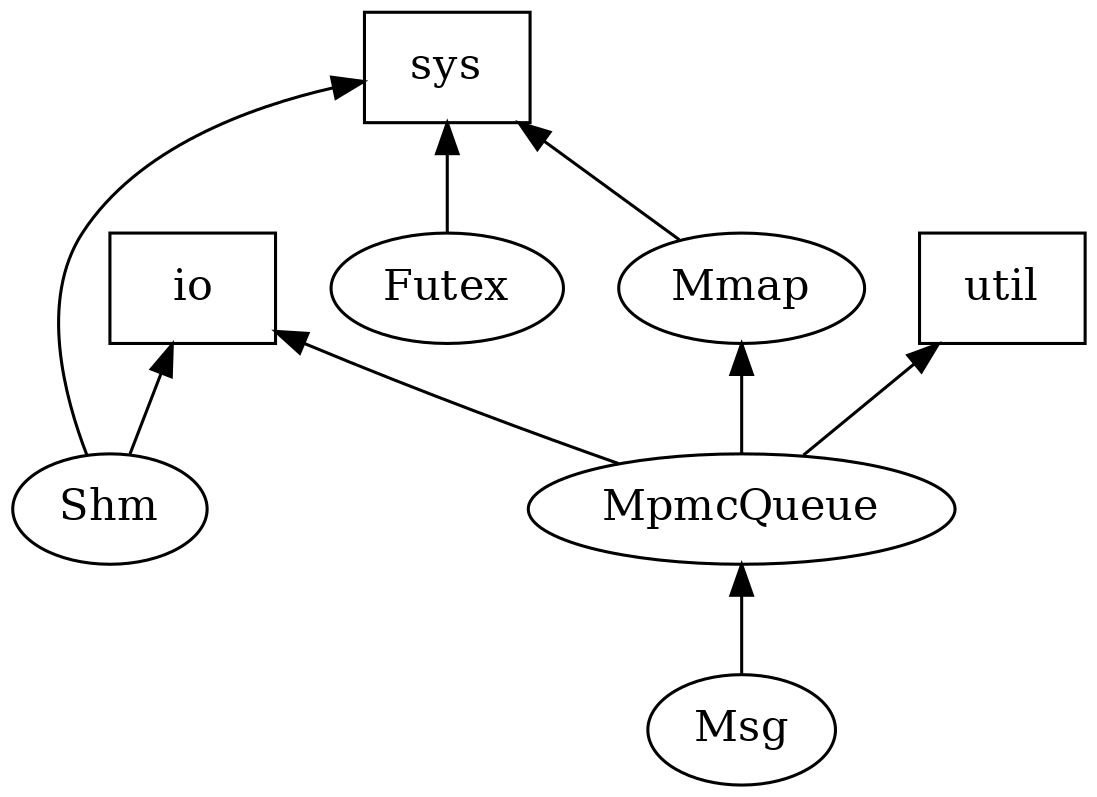
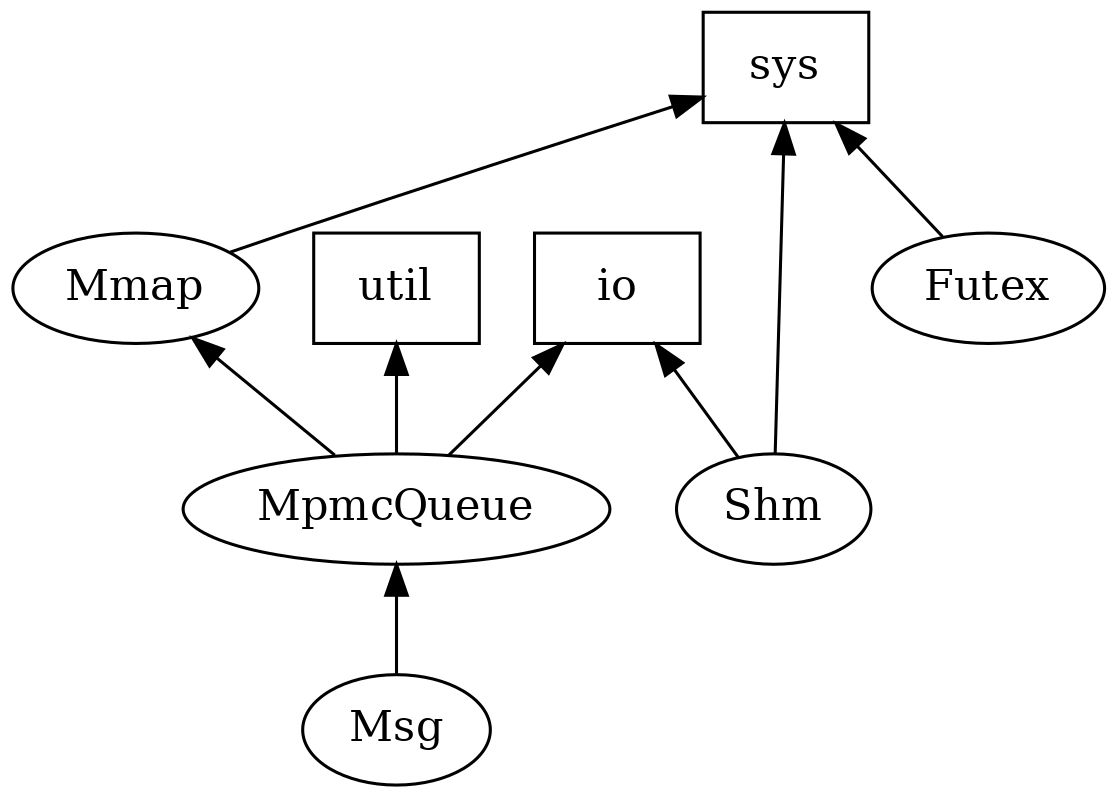
deploy: 26d0957eef1193dd931cfae5f856b34ff83b358c

diff --git a/EchoClnt_8cpp.html b/EchoClnt_8cpp.html
@@ -84,56 +84,56 @@ Include dependency graph for EchoClnt.cpp:</div>
 <div class="dyncontent">
 <div class="center"><img src="EchoClnt_8cpp__incl.png" border="0" usemap="#example_2EchoClnt_8cpp" alt=""/></div>
 <map name="example_2EchoClnt_8cpp" id="example_2EchoClnt_8cpp">
-<area shape="rect" title=" " alt="" coords="2805,5,2971,32"/>
-<area shape="rect" href="io_8hpp.html" title=" " alt="" coords="648,155,763,181"/>
-<area shape="rect" title=" " alt="" coords="2495,453,2587,480"/>
-<area shape="rect" title=" " alt="" coords="1159,603,1219,629"/>
-<area shape="rect" title=" " alt="" coords="43,379,213,405"/>
-<area shape="rect" href="net_8hpp.html" title=" " alt="" coords="1902,80,2026,107"/>
-<area shape="rect" href="sys_8hpp.html" title=" " alt="" coords="2676,80,2801,107"/>
-<area shape="rect" href="util_8hpp.html" title=" " alt="" coords="2826,80,2950,107"/>
-<area shape="rect" title=" " alt="" coords="2975,80,3060,107"/>
-<area shape="rect" title=" " alt="" coords="3085,80,3150,107"/>
-<area shape="rect" title=" " alt="" coords="3175,80,3241,107"/>
-<area shape="rect" title=" " alt="" coords="3266,80,3353,107"/>
-<area shape="rect" title=" " alt="" coords="3377,80,3463,107"/>
-<area shape="rect" title=" " alt="" coords="3488,80,3547,107"/>
-<area shape="rect" href="Buffer_8hpp.html" title=" " alt="" coords="875,528,979,555"/>
-<area shape="rect" href="Disposer_8hpp.html" title=" " alt="" coords="403,229,525,256"/>
-<area shape="rect" href="Epoll_8hpp.html" title=" " alt="" coords="1241,304,1340,331"/>
-<area shape="rect" href="Event_8hpp.html" title=" " alt="" coords="1415,379,1571,405"/>
-<area shape="rect" href="Handle_8hpp.html" title=" " alt="" coords="1107,528,1272,555"/>
-<area shape="rect" href="TimerFd_8hpp.html" title=" " alt="" coords="1065,379,1239,405"/>
-<area shape="rect" href="File_8hpp.html" title=" " alt="" coords="1081,453,1223,480"/>
-<area shape="rect" href="EventFd_8hpp.html" title=" " alt="" coords="1047,304,1166,331"/>
-<area shape="rect" href="Hook_8hpp.html" title=" " alt="" coords="217,304,317,331"/>
-<area shape="rect" href="Reactor_8hpp.html" title=" " alt="" coords="941,229,1056,256"/>
-<area shape="rect" href="Timer_8hpp.html" title=" " alt="" coords="685,304,841,331"/>
-<area shape="rect" href="Waker_8hpp.html" title=" " alt="" coords="865,304,1023,331"/>
-<area shape="rect" href="io_2Runner_8hpp.html" title=" " alt="" coords="267,229,378,256"/>
-<area shape="rect" href="sys_2Error_8hpp.html" title=" " alt="" coords="1297,528,1455,555"/>
-<area shape="rect" href="DgramSock_8hpp.html" title=" " alt="" coords="2197,229,2347,256"/>
-<area shape="rect" href="Endpoint_8hpp.html" title=" " alt="" coords="2201,304,2386,331"/>
-<area shape="rect" href="Protocol_8hpp.html" title=" " alt="" coords="2213,379,2395,405"/>
-<area shape="rect" href="Socket_8hpp.html" title=" " alt="" coords="1840,379,2011,405"/>
-<area shape="rect" href="net_2Error_8hpp.html" title=" " alt="" coords="2110,453,2269,480"/>
-<area shape="rect" href="IoSock_8hpp.html" title=" " alt="" coords="1901,304,2072,331"/>
-<area shape="rect" href="Endian_8hpp.html" title=" " alt="" coords="2482,379,2601,405"/>
-<area shape="rect" href="Frame_8hpp.html" title=" " alt="" coords="869,453,985,480"/>
-<area shape="rect" href="IpAddr_8hpp.html" title=" " alt="" coords="2005,229,2121,256"/>
-<area shape="rect" href="McastSock_8hpp.html" title=" " alt="" coords="2058,155,2203,181"/>
-<area shape="rect" href="RateLimit_8hpp.html" title=" " alt="" coords="1895,155,2033,181"/>
-<area shape="rect" href="Resolver_8hpp.html" title=" " alt="" coords="1799,229,1929,256"/>
-<area shape="rect" href="net_2Runner_8hpp.html" title=" " alt="" coords="2279,155,2399,181"/>
-<area shape="rect" href="StreamAcceptor_8hpp.html" title=" " alt="" coords="1439,155,1617,181"/>
-<area shape="rect" href="StreamSock_8hpp.html" title=" " alt="" coords="1567,229,1774,256"/>
-<area shape="rect" href="StreamConnector_8hpp.html" title=" " alt="" coords="1228,155,1415,181"/>
-<area shape="rect" href="Daemon_8hpp.html" title=" " alt="" coords="3061,155,3192,181"/>
-<area shape="rect" href="Date_8hpp.html" title=" " alt="" coords="3216,155,3323,181"/>
-<area shape="rect" href="Limits_8hpp.html" title=" " alt="" coords="3033,229,3149,256"/>
-<area shape="rect" href="Log_8hpp.html" title=" " alt="" coords="3347,155,3445,181"/>
-<area shape="rect" href="PidFile_8hpp.html" title=" " alt="" coords="2778,155,2897,181"/>
-<area shape="rect" href="Signal_8hpp.html" title=" " alt="" coords="2921,155,3037,181"/>
+<area shape="rect" title=" " alt="" coords="2794,5,2961,32"/>
+<area shape="rect" href="io_8hpp.html" title=" " alt="" coords="660,155,775,181"/>
+<area shape="rect" title=" " alt="" coords="1277,453,1369,480"/>
+<area shape="rect" title=" " alt="" coords="485,603,545,629"/>
+<area shape="rect" title=" " alt="" coords="967,379,1137,405"/>
+<area shape="rect" title=" " alt="" coords="2264,453,2341,480"/>
+<area shape="rect" href="net_8hpp.html" title=" " alt="" coords="1881,80,2005,107"/>
+<area shape="rect" href="sys_8hpp.html" title=" " alt="" coords="2791,304,2916,331"/>
+<area shape="rect" href="util_8hpp.html" title=" " alt="" coords="2866,80,2990,107"/>
+<area shape="rect" title=" " alt="" coords="3015,80,3100,107"/>
+<area shape="rect" title=" " alt="" coords="3125,80,3190,107"/>
+<area shape="rect" title=" " alt="" coords="3215,80,3281,107"/>
+<area shape="rect" title=" " alt="" coords="3306,80,3393,107"/>
+<area shape="rect" title=" " alt="" coords="3417,80,3503,107"/>
+<area shape="rect" title=" " alt="" coords="3528,80,3587,107"/>
+<area shape="rect" href="Buffer_8hpp.html" title=" " alt="" coords="145,528,249,555"/>
+<area shape="rect" href="Disposer_8hpp.html" title=" " alt="" coords="468,229,591,256"/>
+<area shape="rect" href="Epoll_8hpp.html" title=" " alt="" coords="547,304,645,331"/>
+<area shape="rect" href="Event_8hpp.html" title=" " alt="" coords="1361,379,1517,405"/>
+<area shape="rect" href="Handle_8hpp.html" title=" " alt="" coords="432,528,597,555"/>
+<area shape="rect" href="TimerFd_8hpp.html" title=" " alt="" coords="324,379,497,405"/>
+<area shape="rect" href="File_8hpp.html" title=" " alt="" coords="339,453,482,480"/>
+<area shape="rect" href="EventFd_8hpp.html" title=" " alt="" coords="274,304,393,331"/>
+<area shape="rect" href="Hook_8hpp.html" title=" " alt="" coords="903,304,1003,331"/>
+<area shape="rect" href="Reactor_8hpp.html" title=" " alt="" coords="903,229,1017,256"/>
+<area shape="rect" href="Timer_8hpp.html" title=" " alt="" coords="1027,304,1183,331"/>
+<area shape="rect" href="Waker_8hpp.html" title=" " alt="" coords="721,304,879,331"/>
+<area shape="rect" href="io_2Runner_8hpp.html" title=" " alt="" coords="615,229,726,256"/>
+<area shape="rect" href="sys_2Error_8hpp.html" title=" " alt="" coords="622,528,781,555"/>
+<area shape="rect" href="DgramSock_8hpp.html" title=" " alt="" coords="2141,229,2291,256"/>
+<area shape="rect" href="Endpoint_8hpp.html" title=" " alt="" coords="1982,304,2167,331"/>
+<area shape="rect" href="Protocol_8hpp.html" title=" " alt="" coords="1771,379,1952,405"/>
+<area shape="rect" href="Socket_8hpp.html" title=" " alt="" coords="1989,379,2160,405"/>
+<area shape="rect" href="net_2Error_8hpp.html" title=" " alt="" coords="1817,453,1975,480"/>
+<area shape="rect" href="IoSock_8hpp.html" title=" " alt="" coords="2192,304,2363,331"/>
+<area shape="rect" href="Endian_8hpp.html" title=" " alt="" coords="1263,229,1382,256"/>
+<area shape="rect" href="Frame_8hpp.html" title=" " alt="" coords="43,453,159,480"/>
+<area shape="rect" href="IpAddr_8hpp.html" title=" " alt="" coords="2418,229,2534,256"/>
+<area shape="rect" href="McastSock_8hpp.html" title=" " alt="" coords="2338,155,2483,181"/>
+<area shape="rect" href="RateLimit_8hpp.html" title=" " alt="" coords="2031,155,2169,181"/>
+<area shape="rect" href="Resolver_8hpp.html" title=" " alt="" coords="2609,229,2740,256"/>
+<area shape="rect" href="net_2Runner_8hpp.html" title=" " alt="" coords="2193,155,2313,181"/>
+<area shape="rect" href="StreamAcceptor_8hpp.html" title=" " alt="" coords="1524,155,1703,181"/>
+<area shape="rect" href="StreamSock_8hpp.html" title=" " alt="" coords="1858,229,2065,256"/>
+<area shape="rect" href="StreamConnector_8hpp.html" title=" " alt="" coords="1313,155,1500,181"/>
+<area shape="rect" href="Daemon_8hpp.html" title=" " alt="" coords="2788,379,2919,405"/>
+<area shape="rect" href="Date_8hpp.html" title=" " alt="" coords="2943,379,3049,405"/>
+<area shape="rect" href="Limits_8hpp.html" title=" " alt="" coords="3071,453,3187,480"/>
+<area shape="rect" href="Log_8hpp.html" title=" " alt="" coords="3124,379,3223,405"/>
+<area shape="rect" href="PidFile_8hpp.html" title=" " alt="" coords="2594,379,2713,405"/>
 </map>
 </div>
 </div>

diff --git a/PidFile_8cpp.html b/PidFile_8cpp.html
@@ -97,14 +97,14 @@ Include dependency graph for PidFile.cpp:</div>
 <area shape="rect" title=" " alt="" coords="1242,87,1305,114"/>
 <area shape="rect" title=" " alt="" coords="1329,87,1404,114"/>
 <area shape="rect" title=" " alt="" coords="1428,87,1503,114"/>
-<area shape="rect" title=" " alt="" coords="1527,87,1702,114"/>
-<area shape="rect" title=" " alt="" coords="1726,87,1829,114"/>
-<area shape="rect" title=" " alt="" coords="1853,87,1920,114"/>
-<area shape="rect" title=" " alt="" coords="1945,87,2015,114"/>
-<area shape="rect" title=" " alt="" coords="2039,87,2110,114"/>
-<area shape="rect" title=" " alt="" coords="2135,87,2199,114"/>
-<area shape="rect" title=" " alt="" coords="2223,87,2273,114"/>
-<area shape="rect" title=" " alt="" coords="2297,80,2503,121"/>
+<area shape="rect" title=" " alt="" coords="1527,80,1732,121"/>
+<area shape="rect" title=" " alt="" coords="1757,87,1931,114"/>
+<area shape="rect" title=" " alt="" coords="1955,87,2058,114"/>
+<area shape="rect" title=" " alt="" coords="2083,87,2133,114"/>
+<area shape="rect" title=" " alt="" coords="2157,87,2224,114"/>
+<area shape="rect" title=" " alt="" coords="2249,87,2319,114"/>
+<area shape="rect" title=" " alt="" coords="2343,87,2414,114"/>
+<area shape="rect" title=" " alt="" coords="2439,87,2503,114"/>
 <area shape="rect" href="Config_8h.html" title=" " alt="" coords="5,319,133,345"/>
 <area shape="rect" title=" " alt="" coords="100,169,177,196"/>
 <area shape="rect" title=" " alt="" coords="202,169,310,196"/>
